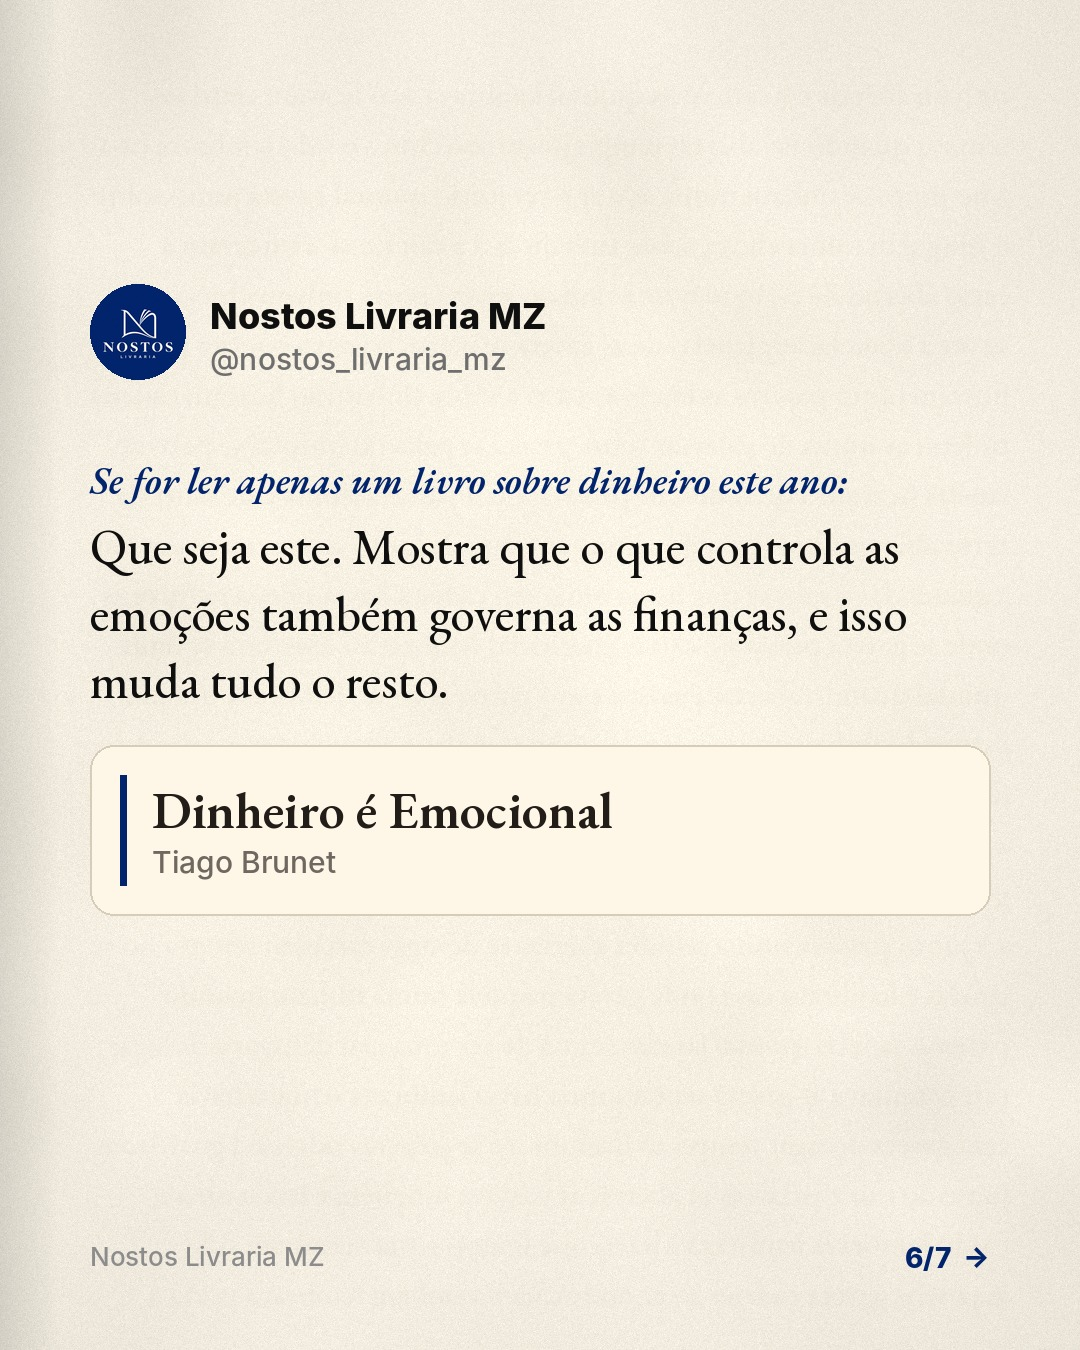
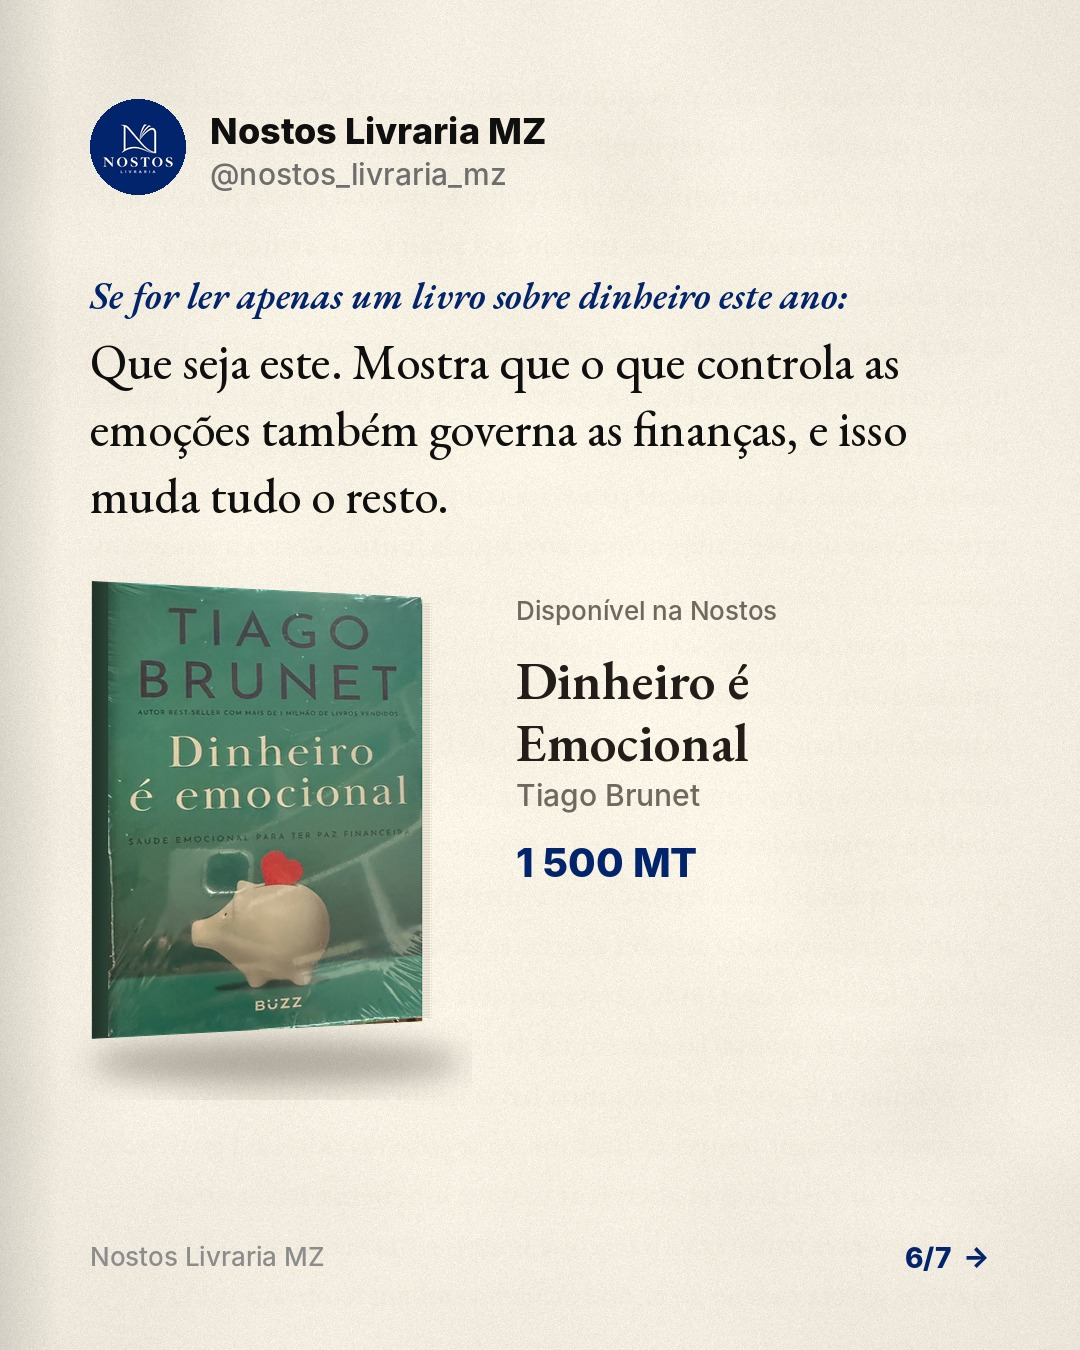
Capa real de Dinheiro é Emocional (1 500 MT) em 3D; regra de variar formatos
Claude-Session: https://claude.ai/code/session_01158HqZBK5N8s9ruNUS9Jgj

Changed region(s): [[0.0611, 0.1867, 0.825, 0.8089], [0.0611, 0.0622, 0.5194, 0.1556]]

diff --git a/engine/render.py b/engine/render.py
@@ -371,6 +371,7 @@ def nota_draw(W, H, p, n, total):
     M = 90
     story = H > 1500
     y0 = 0
+    late = []  # imagens coladas depois sobre o papel (evita manchas no fundo)
     av = avatar(96)
     tx = M
     if av is not None:
@@ -418,7 +419,7 @@ def nota_draw(W, H, p, n, total):
             ch = 540
             if cov_path and os.path.exists(cov_path):
                 pic = book_mockup(Image.open(cov_path), ch - 80)
-                canvas.paste(pic, (M - 20, int(y)), pic)
+                late.append((pic, (M - 20, int(y))))
                 pw = pic.width - 20
             else:
                 pic = Image.open(ph_path).convert("RGB")
@@ -458,6 +459,8 @@ def nota_draw(W, H, p, n, total):
     crop = canvas.crop((0, 0, W, content_h + 10))
     cm = np.array(crop, float); diff = np.abs(cm - np.array(bg, float)).sum(2)
     img.paste(crop, (0, top), Image.fromarray((np.clip(diff * 40, 0, 255)).astype(np.uint8)))
+    for pic, (px, py) in late:
+        img.paste(pic, (px, py + top), pic)
     d = ImageDraw.Draw(img)
     # rodapé
     fy = H - (260 if story else 110)

diff --git a/CLAUDE.md b/CLAUDE.md
@@ -134,7 +134,11 @@ Cada post tem de dar uma razão forte para seguir a página e para ler. Priorida
   `livros/<nome-do-livro>.jpg` (enviadas pelo Yuri). Capa plana/digital → `"cover": "livros/…jpg"` (o motor gera
   o livro em 3D com essa capa); foto do livro já fotografado → `"photo": "livros/…jpg"`.
   Nunca desenhar, recriar ou descarregar capas. Sem foto em `livros/`, usar o cartão só com título e autor.
-  Preferir livros que tenham foto.
+  Preferir livros que tenham foto. Para cortar a capa de uma foto tirada à mão, usar transformação de
+  perspectiva (ver como foi feita `livros/dinheiro-e-emocional.jpg` a partir de `livros/dinheiro-e-emocional_foto.jpg`).
+- **Variar sempre o formato**: carrossel de texto com o livro em 3D pequeno por baixo; páginas de livro;
+  fotos do livro aberto ou de páginas reais (quando o Yuri as enviar para `fotos/`); listas; vídeos curtos.
+  Nunca dois posts seguidos com o mesmo formato.
 - **Livros novos**: mostrar que há sempre livros novos e certos para cada fase da vida (catálogo dos anúncios).
 - **Pessoas no ecrã**: posts com pessoas reais chamam mais atenção. Sempre que `fotos/` tiver fotos ou vídeos
   reais ainda não usados (pessoas moçambicanas, leitores, clientes, entregas, a equipa), dar-lhes prioridade

diff --git a/data/catalogo.md b/data/catalogo.md
@@ -16,6 +16,9 @@ Quarta Asa (2 600 MT) · Amor, Teoricamente (2 400 MT) · A Hipótese do Amor (2
 ## Clássicos e filosofia (anúncio com melhores resultados)
 Obras de Aristóteles, Maquiavel, Nietzsche, Séneca · Noites Brancas – Dostoiévski (1 250 MT)
 
+## Finanças e emoções (adicionado pelo Yuri, 18/11/2026)
+Dinheiro é Emocional – Tiago Brunet (1 500 MT) · capa: `livros/dinheiro-e-emocional.jpg`
+
 ## Fé e propósito
 Uma Vida com Propósitos – Rick Warren (2 100 MT)
 
